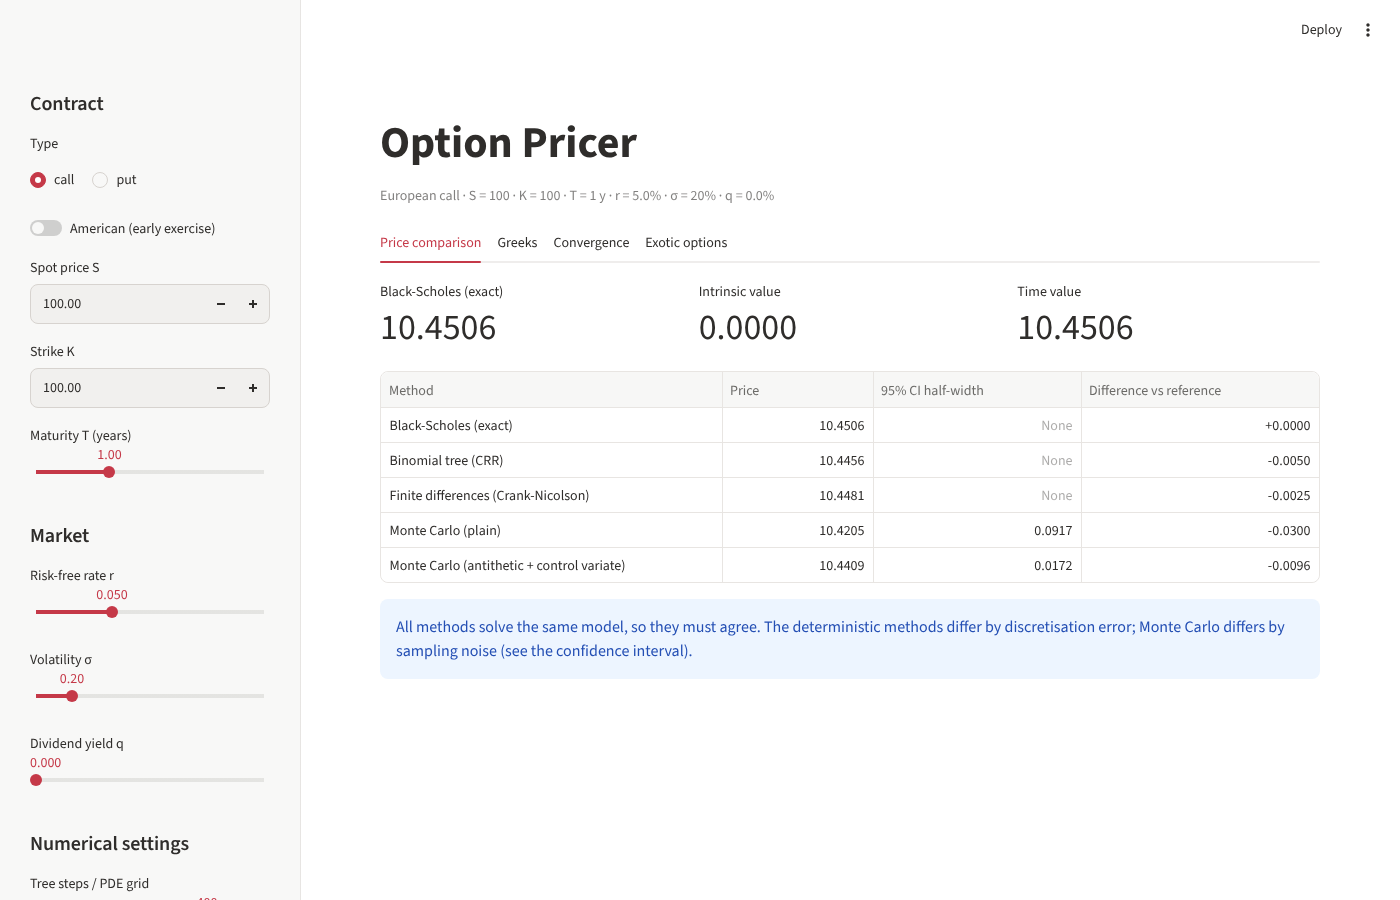
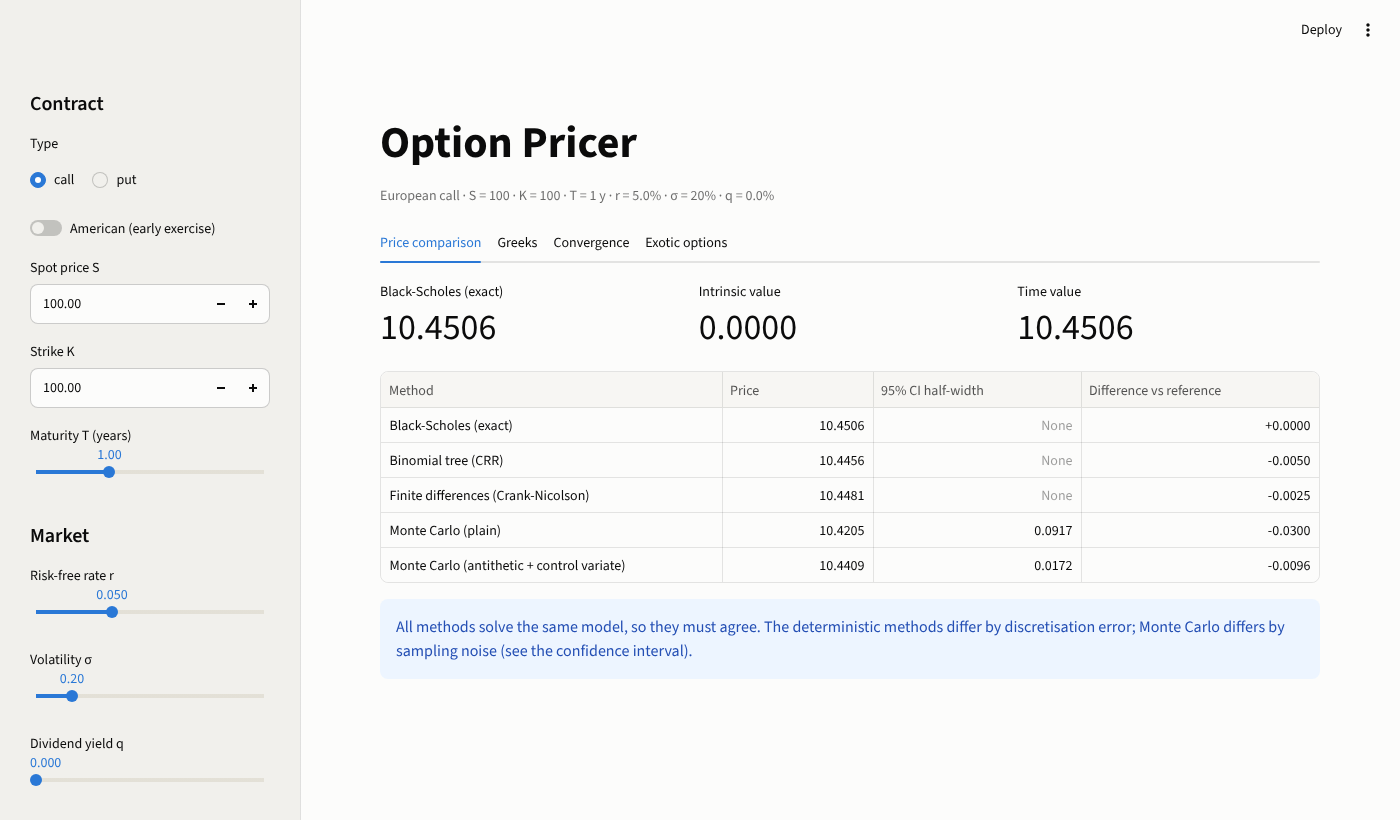
Add README, theory notes and dashboard theme
Claude-Session: https://claude.ai/code/session_01AnFaXzxbENegui9Mia6B9o

diff --git a/README.md b/README.md
@@ -1,0 +1,198 @@
+# Option Pricer
+
+Pricing of vanilla and exotic options with four independent numerical methods, cross-validated against each other and against closed-form solutions.
+
+| Method | Module | Handles |
+|---|---|---|
+| Black-Scholes closed form | `pricer/black_scholes.py` | European options, Greeks, implied volatility |
+| Monte Carlo simulation | `pricer/monte_carlo.py` | European options, variance reduction, pathwise and likelihood-ratio Greeks |
+| Binomial tree (Cox-Ross-Rubinstein) | `pricer/binomial.py` | European and American options, early-exercise boundary |
+| Finite differences (explicit, implicit, Crank-Nicolson) | `pricer/finite_difference.py` | European, American and knock-out barrier options |
+| Exotic options | `pricer/exotics.py` | Asian, barrier, American by Longstaff-Schwartz |
+
+![Dashboard](docs/figures/app_screenshot.png)
+
+## Results
+
+All numbers below are for the reference contract S = 100, K = 100, T = 1 year, r = 5%, σ = 20%, and can be reproduced with the notebooks.
+
+### Every method agrees on the price
+
+| Method | European call | Difference |
+|---|---|---|
+| Black-Scholes (exact) | 10.4506 | |
+| Binomial tree, 1,000 steps | 10.4486 | -0.0020 |
+| Crank-Nicolson, 800 x 800 grid | 10.4500 | -0.0006 |
+| Monte Carlo, 200,000 paths | 10.4634 ± 0.0649 | +0.0128 |
+| Monte Carlo with variance reduction, 200,000 paths | 10.4388 ± 0.0122 | -0.0118 |
+
+Monte Carlo intervals are 95% confidence intervals.
+
+### Monte Carlo converges like 1/√N, and variance reduction makes up for it
+
+![Monte Carlo convergence](docs/figures/monte_carlo_convergence.png)
+
+![Variance reduction](docs/figures/variance_reduction.png)
+
+Combining antithetic variates with a control variate gives the accuracy of plain Monte Carlo with about 28 times fewer paths. For an Asian option, using the geometric-average option as control variate divides the variance by about 1,300.
+
+### The binomial tree converges with a saw-tooth pattern
+
+![Binomial convergence](docs/figures/binomial_convergence.png)
+
+### The Black-Scholes PDE behaves like the heat equation
+
+A change of variables turns the Black-Scholes PDE into the heat equation, so it inherits the same numerical behaviour: the explicit scheme is stable only below a time-step limit proportional to ΔS², while the implicit and Crank-Nicolson schemes are unconditionally stable. Crank-Nicolson is second order in time.
+
+![Finite-difference schemes](docs/figures/finite_difference_schemes.png)
+
+### Greeks
+
+![Greeks](docs/figures/greeks.png)
+
+Closed-form Greeks are checked against bump-and-revalue on every pricer and against Monte Carlo estimators.
+
+### American options
+
+| Method | American put |
+|---|---|
+| Binomial tree, 2,000 steps | 6.0900 |
+| Crank-Nicolson, 800 x 800 grid | 6.0889 |
+| Longstaff-Schwartz, 200,000 paths, 50 exercise dates | 6.0695 ± 0.0189 |
+| European put (Black-Scholes), for comparison | 5.5735 |
+
+Longstaff-Schwartz sits slightly below the tree because it allows exercise at 50 dates only and uses an estimated exercise rule.
+
+![American put](docs/figures/american_put.png)
+
+### Barrier options: simulation needs a correction
+
+A simulated path is observed at a finite number of dates and misses barrier crossings in between. For a down-and-out call with barrier 90, the naive simulation gives 9.05 where the exact price is 8.67. Weighting each step by the Brownian-bridge survival probability removes the bias.
+
+| Method | Down-and-out call, H = 90 |
+|---|---|
+| Closed form (Reiner-Rubinstein) | 8.6655 |
+| Finite differences | 8.6653 |
+| Monte Carlo with Brownian-bridge correction | 8.6828 ± 0.0637 |
+| Monte Carlo, barrier checked at 100 dates only | 9.0466 |
+
+![Barrier monitoring](docs/figures/barrier_monitoring.png)
+
+## Installation
+
+```bash
+git clone https://github.com/AminD/option-pricer-reference.git
+cd option-pricer-reference
+python -m venv .venv
+.venv\Scripts\activate          # Windows
+# source .venv/bin/activate     # macOS / Linux
+pip install -r requirements.txt
+```
+
+## Usage
+
+### Python
+
+```python
+from pricer import VanillaOption, black_scholes, binomial, monte_carlo, finite_difference, exotics
+
+option = VanillaOption(spot=100, strike=100, maturity=1.0, rate=0.05, vol=0.2, option_type="call")
+
+black_scholes.price(option)                      # 10.4506
+black_scholes.greeks(option)                     # delta, gamma, vega, theta, rho
+binomial.price(option, n_steps=1000)             # 10.4486
+finite_difference.price(option)                  # Crank-Nicolson by default
+monte_carlo.price(option, n_paths=200_000, seed=42, antithetic=True, control_variate=True)
+
+put = option.with_(option_type="put")
+binomial.price(put, n_steps=2000, american=True)                 # 6.0900
+exotics.american_price_lsm(put, n_paths=200_000, seed=6)         # Longstaff-Schwartz
+exotics.asian_price(option, n_fixings=50, seed=1)                # arithmetic Asian
+exotics.barrier_price_analytic(option, 90.0, "down-and-out")     # 8.6655
+```
+
+### Command line
+
+```bash
+python -m pricer --spot 100 --strike 100 --maturity 1 --rate 0.05 --vol 0.2 --type call
+python -m pricer --spot 100 --strike 110 --maturity 1 --rate 0.05 --vol 0.2 --type put --american
+```
+
+```
+European call: S=100 K=100 T=1 r=0.05 sigma=0.2 q=0
+
+Method                           Price     vs ref.
+----------------------------------------------------
+Black-Scholes (exact)          10.4506               reference
+Binomial tree (CRR)            10.4466     -0.0040
+Finite differences (CN)        10.4490     -0.0016
+Monte Carlo (plain)            10.4634     +0.0128   +/- 0.0649
+Monte Carlo (reduced var.)     10.4388     -0.0118   +/- 0.0122
+```
+
+### Dashboard
+
+```bash
+streamlit run app/streamlit_app.py
+```
+
+The dashboard prices any contract with every method, shows the Greeks, the convergence of each method, and the exotic options.
+
+### Tests and figures
+
+```bash
+pytest                           # 85 tests
+python scripts/make_figures.py   # regenerate the figures of this README
+```
+
+## Project structure
+
+```
+pricer/                  the library
+  options.py             contract and market parameters
+  black_scholes.py       closed-form price, Greeks, implied volatility
+  monte_carlo.py         simulation, variance reduction, Monte Carlo Greeks
+  binomial.py            Cox-Ross-Rubinstein tree
+  finite_difference.py   theta-scheme PDE solver
+  greeks.py              bump-and-revalue Greeks for any pricer
+  exotics.py             Asian, barrier and American (Longstaff-Schwartz)
+  plotting.py            shared Matplotlib style
+  cli.py                 command-line interface
+app/streamlit_app.py     interactive dashboard
+notebooks/               four notebooks with the full analysis
+tests/                   test suite
+docs/theory.md           mathematical derivations
+scripts/make_figures.py  regenerates docs/figures
+```
+
+## Notebooks
+
+1. [Black-Scholes and Monte Carlo](notebooks/01_black_scholes_and_monte_carlo.ipynb): put-call parity, convergence rate, variance reduction.
+2. [Binomial tree and Greeks](notebooks/02_binomial_tree_and_greeks.ipynb): convergence, American options, three ways to compute Greeks.
+3. [Finite differences](notebooks/03_finite_differences.ipynb): link with the heat equation, stability, order of convergence.
+4. [Exotic options](notebooks/04_exotic_options.ipynb): Asian, barrier and Longstaff-Schwartz.
+
+The derivations behind the code are in [docs/theory.md](docs/theory.md).
+
+## How the results are validated
+
+No number in this project relies on a single method:
+
+- Black-Scholes prices satisfy put-call parity to machine precision, and the Greeks match finite differences of the price.
+- The tree, the PDE solver and Monte Carlo are each tested against Black-Scholes.
+- American prices from the tree, the PDE and Longstaff-Schwartz are tested against each other.
+- Barrier closed forms are tested against the PDE and against simulation, and knock-in plus knock-out equals the vanilla price.
+- The geometric Asian closed form is tested against direct simulation.
+- Monte Carlo tests use fixed seeds and compare to the exact value within four standard errors.
+
+## Model assumptions and limits
+
+The underlying follows a geometric Brownian motion with constant volatility and interest rate, and a continuous dividend yield. Real markets show a volatility smile that this model cannot reproduce; calibrating a stochastic-volatility model (Heston) to market quotes is the natural next step. The American treatment in the PDE solver (projection after each step) is first order in time.
+
+## References
+
+- J. Hull, *Options, Futures, and Other Derivatives*.
+- P. Glasserman, *Monte Carlo Methods in Financial Engineering*.
+- P. Wilmott, *Paul Wilmott Introduces Quantitative Finance*.
+- F. Longstaff and E. Schwartz, "Valuing American Options by Simulation: A Simple Least-Squares Approach", *Review of Financial Studies*, 2001.
+- E. Haug, *The Complete Guide to Option Pricing Formulas*.

diff --git a/docs/theory.md b/docs/theory.md
@@ -1,0 +1,111 @@
+# Theory notes
+
+The mathematics behind each module, in the order the project was built.
+
+Notation: $S$ underlying price, $K$ strike, $T$ maturity, $r$ risk-free rate, $q$ dividend yield, $\sigma$ volatility, $N$ the standard normal distribution function.
+
+## 1. The model
+
+The underlying follows a geometric Brownian motion,
+
+$$dS_t = \mu S_t\,dt + \sigma S_t\,dW_t .$$
+
+Applying Itô's lemma to $\ln S_t$ gives $d\ln S_t = (\mu - \tfrac{1}{2}\sigma^2)\,dt + \sigma\,dW_t$, hence the exact solution
+
+$$S_T = S_0 \exp\!\Big(\big(\mu - \tfrac{1}{2}\sigma^2\big)T + \sigma\sqrt{T}\,Z\Big), \qquad Z \sim \mathcal{N}(0,1).$$
+
+The $-\tfrac{1}{2}\sigma^2$ term is the Itô correction: the mean of $S_T$ grows at rate $\mu$, but its median grows at rate $\mu - \tfrac{1}{2}\sigma^2$.
+
+## 2. Risk-neutral pricing
+
+**One-step example.** A stock worth 100 goes to 120 or 80, the interest rate is zero, and a call has strike 100 (payoff 20 or 0). Holding half a share and borrowing 40 pays $0.5 \times 120 - 40 = 20$ or $0.5 \times 80 - 40 = 0$: the same as the call. The call must therefore cost $0.5 \times 100 - 40 = 10$, whatever the probability of an up move. The same price is obtained as an expectation under the probability $q^\ast = 0.5$ that makes the stock itself fairly priced: $0.5 \times 20 = 10$.
+
+**Continuous time.** Hold one option and sell $\Delta = \partial V/\partial S$ shares. By Itô's lemma the portfolio $\Pi = V - \Delta S$ changes by
+
+$$d\Pi = \Big(\frac{\partial V}{\partial t} + \frac{1}{2}\sigma^2 S^2 \frac{\partial^2 V}{\partial S^2}\Big)dt - q\,\Delta S\,dt ,$$
+
+with no $dW$ term: it is riskless, so it must earn the risk-free rate, $d\Pi = r\Pi\,dt$. This gives the **Black-Scholes PDE**
+
+$$\frac{\partial V}{\partial t} + \frac{1}{2}\sigma^2 S^2 \frac{\partial^2 V}{\partial S^2} + (r-q)S\frac{\partial V}{\partial S} - rV = 0 .$$
+
+The drift $\mu$ has disappeared. By the Feynman-Kac theorem the solution is a discounted expectation in which the stock drifts at $r - q$ instead of $\mu$:
+
+$$V_0 = e^{-rT}\,\mathbb{E}^{\mathbb{Q}}\big[\text{payoff}(S_T)\big].$$
+
+Every method in this project computes this same quantity: analytically, by simulation, on a tree, or by solving the PDE.
+
+## 3. Black-Scholes formula
+
+For a call, $\mathbb{E}^{\mathbb{Q}}[\max(S_T - K, 0)]$ is a Gaussian integral that evaluates to
+
+$$C = S_0 e^{-qT} N(d_1) - K e^{-rT} N(d_2), \qquad d_{1,2} = \frac{\ln(S_0/K) + (r - q \pm \tfrac{1}{2}\sigma^2)T}{\sigma\sqrt{T}},$$
+
+and $P = K e^{-rT} N(-d_2) - S_0 e^{-qT} N(-d_1)$ for a put. $N(d_2)$ is the risk-neutral probability of finishing in the money.
+
+**Put-call parity.** Long a call and short a put pays $S_T - K$ in all cases, so
+
+$$C - P = S_0 e^{-qT} - K e^{-rT},$$
+
+independently of the model. It is the first test of the implementation.
+
+**Greeks** (call, $\varphi$ the normal density):
+
+| Greek | Formula |
+|---|---|
+| Delta | $e^{-qT} N(d_1)$ |
+| Gamma | $e^{-qT}\varphi(d_1) / (S_0\sigma\sqrt{T})$ |
+| Vega | $S_0 e^{-qT}\varphi(d_1)\sqrt{T}$ |
+| Theta | $-\dfrac{S_0 e^{-qT}\varphi(d_1)\sigma}{2\sqrt{T}} + qS_0e^{-qT}N(d_1) - rKe^{-rT}N(d_2)$ |
+| Rho | $KTe^{-rT}N(d_2)$ |
+
+## 4. Monte Carlo
+
+With $N$ independent draws $Z_i$, the estimator $\hat V = \frac{1}{N}\sum_i e^{-rT}\,\text{payoff}(S_T^{(i)})$ is unbiased and, by the central limit theorem, has standard error $s/\sqrt{N}$ where $s$ is the sample standard deviation of the discounted payoffs.
+
+**Antithetic variates.** Average the payoffs obtained with $Z$ and $-Z$. The variance of the pair average is $\tfrac{1}{2}\text{Var}(X)(1+\rho)$ with $\rho < 0$ for a monotone payoff.
+
+**Control variate.** For a variable $Y$ with known mean, $X - \beta(Y - \mathbb{E}[Y])$ has the same mean as $X$ and, with $\beta = \text{Cov}(X,Y)/\text{Var}(Y)$, variance $(1 - \rho_{XY}^2)\,\text{Var}(X)$. Here $Y = e^{-rT}S_T$ for vanilla options and the geometric Asian payoff for Asian options.
+
+**Greeks.** Pathwise: differentiate the payoff along the path, using $\partial S_T/\partial S_0 = S_T/S_0$. Likelihood ratio: differentiate the density instead, which gives the weight $Z/(S_0\sigma\sqrt{T})$ for delta and works for discontinuous payoffs.
+
+## 5. Binomial tree
+
+With $u = e^{\sigma\sqrt{\Delta t}}$, $d = 1/u$ and $p = \dfrac{e^{(r-q)\Delta t} - d}{u - d}$, the tree matches the mean and variance of the GBM over each step, and
+
+$$V = e^{-r\Delta t}\big[p\,V_u + (1-p)\,V_d\big]$$
+
+is the one-step replication argument of section 2. For an American option, $V = \max(\text{payoff},\ \text{continuation})$ at every node. The error is $O(1/n)$ and oscillates with the position of the strike relative to the nodes.
+
+## 6. Finite differences
+
+**Heat equation.** With $x = \ln S$, $\tau = T - t$ and $V = e^{\alpha x + \beta\tau}u$ for suitable constants $\alpha, \beta$, the Black-Scholes PDE becomes
+
+$$\frac{\partial u}{\partial \tau} = \frac{\sigma^2}{2}\frac{\partial^2 u}{\partial x^2}.$$
+
+**Discretisation.** On a grid $S_i = S_{\min} + i\,\Delta S$ with central differences, the spatial operator is tridiagonal, $(LV)_i = a_i V_{i-1} + b_i V_i + c_i V_{i+1}$ with
+
+$$a_i = \frac{\sigma^2 S_i^2}{2\Delta S^2} - \frac{(r-q)S_i}{2\Delta S},\qquad b_i = -\frac{\sigma^2 S_i^2}{\Delta S^2} - r,\qquad c_i = \frac{\sigma^2 S_i^2}{2\Delta S^2} + \frac{(r-q)S_i}{2\Delta S}.$$
+
+The $\theta$-scheme advances in time by
+
+$$(I - \theta\,\Delta\tau\,L)\,V^{n+1} = (I + (1-\theta)\,\Delta\tau\,L)\,V^{n},$$
+
+with $\theta = 0$ (explicit), $1$ (implicit) or $\tfrac{1}{2}$ (Crank-Nicolson).
+
+**Stability.** The explicit scheme requires $\Delta\tau \lesssim \Delta S^2/(\sigma^2 S_{\max}^2)$, the analogue of $\Delta t \le \Delta x^2/(2D)$. The other two are unconditionally stable. Crank-Nicolson is $O(\Delta\tau^2)$ but does not damp the high frequencies excited by the payoff kink; two implicit half-steps at the start (Rannacher) restore smooth Greeks.
+
+**Boundary conditions.** Call: $V(0) = 0$ and $V(S_{\max}) = S_{\max}e^{-q\tau} - Ke^{-r\tau}$. Put: $V(0) = Ke^{-r\tau}$ and $V(S_{\max}) = 0$. Knock-out barrier: $V = 0$ at the barrier, which becomes the edge of the grid.
+
+## 7. Exotic options
+
+**Geometric Asian.** With fixings at $t_i = iT/n$, $\ln G = \frac{1}{n}\sum_i \ln S_{t_i}$ is Gaussian with
+
+$$\mathbb{E}[\ln G] = \ln S_0 + \big(r - q - \tfrac{1}{2}\sigma^2\big)T\,\frac{n+1}{2n}, \qquad \text{Var}[\ln G] = \sigma^2 T\,\frac{(n+1)(2n+1)}{6n^2},$$
+
+which gives a Black-Scholes-type formula.
+
+**Barrier options.** The reflection principle gives closed forms for continuous monitoring (Reiner-Rubinstein), built from the vanilla formula and an image term weighted by $(H/S)^{2\mu}$, $\mu = (r - q - \tfrac{1}{2}\sigma^2)/\sigma^2$. In a simulation, conditionally on the end points of a step, the log-price is a Brownian bridge that crosses the barrier $H$ with probability
+
+$$\exp\!\Big(-\frac{2\,\ln(S_i/H)\,\ln(S_{i+1}/H)}{\sigma^2\,\Delta t}\Big).$$
+
+**Longstaff-Schwartz.** At each exercise date, going backwards, regress the discounted future cash flows of the in-the-money paths on basis functions of $S$ to estimate the continuation value $\mathbb{E}[V_{t+\Delta t}e^{-r\Delta t} \mid S_t]$, and exercise where the payoff exceeds it. Cash flows, not fitted values, are carried backwards, which limits the bias.
